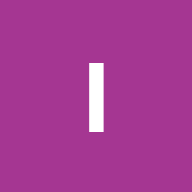
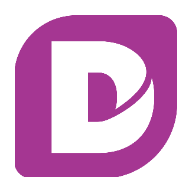
ver password

diff --git a/pages/login.js b/pages/login.js
@@ -5,6 +5,7 @@ export default function Login() {
   const router = useRouter();
   const [email, setEmail] = useState('');
   const [password, setPassword] = useState('');
+  const [showPw, setShowPw] = useState(false);
   const [error, setError] = useState('');
   const [loading, setLoading] = useState(false);
 
@@ -26,8 +27,8 @@ export default function Login() {
   return (
     <div style={{ fontFamily: "'Outfit', system-ui, sans-serif", minHeight: '100vh', background: 'radial-gradient(circle at 20% 15%, #FBD9F2 0%, #FDF8FB 45%, #FDF8FB 100%)', display: 'flex', alignItems: 'center', justifyContent: 'center', padding: 24 }}>
       <form onSubmit={submit} style={{ width: '100%', maxWidth: 380, background: '#fff', borderRadius: 24, padding: '40px 32px', boxShadow: '0 12px 40px rgba(165,54,146,0.12)' }}>
-        <div style={{ width: 52, height: 52, borderRadius: 16, background: 'linear-gradient(135deg, #A53692, #7C07A6)', display: 'flex', alignItems: 'center', justifyContent: 'center', marginBottom: 20 }}>
-          <span style={{ color: '#fff', fontSize: 24, fontWeight: 700 }}>I</span>
+        <div style={{ width: 52, height: 52, borderRadius: 16, background: '#fff', display: 'flex', alignItems: 'center', justifyContent: 'center', marginBottom: 20, overflow: 'hidden' }}>
+          <img src="/icon-192.png" alt="Diseñarte México" style={{ width: '100%', height: '100%', objectFit: 'contain' }} />
         </div>
         <div style={{ fontSize: 26, fontWeight: 700, color: '#1D1B1E', marginBottom: 2 }}>Bienvenido</div>
         <div style={{ fontSize: 14, color: '#96989A', marginBottom: 28 }}>Inicia sesión en Inventario · Diseñarte México</div>
@@ -38,7 +39,10 @@ export default function Login() {
         </label>
         <label style={{ fontSize: 13, color: '#96989A', display: 'flex', flexDirection: 'column', gap: 6, marginBottom: 8 }}>
           Contraseña
-          <input type="password" required value={password} onChange={(e) => setPassword(e.target.value)} placeholder="••••••••" style={{ border: '1px solid #F1EEF0', borderRadius: 10, padding: '12px 14px', fontSize: 15, fontFamily: 'inherit', outline: 'none' }} />
+          <div style={{ position: 'relative', display: 'flex' }}>
+            <input type={showPw ? 'text' : 'password'} required value={password} onChange={(e) => setPassword(e.target.value)} placeholder="••••••••" style={{ flex: 1, border: '1px solid #F1EEF0', borderRadius: 10, padding: '12px 44px 12px 14px', fontSize: 15, fontFamily: 'inherit', outline: 'none' }} />
+            <button type="button" onClick={() => setShowPw((v) => !v)} style={{ position: 'absolute', right: 6, top: 0, bottom: 0, border: 'none', background: 'none', color: '#96989A', fontSize: 12, cursor: 'pointer', fontWeight: 600 }}>{showPw ? 'Ocultar' : 'Ver'}</button>
+          </div>
         </label>
 
         {error ? <div style={{ fontSize: 13, color: '#B3261E', marginTop: 10 }}>{error}</div> : null}

diff --git a/pages/index.js b/pages/index.js
@@ -38,6 +38,7 @@ export default function Home() {
   const [editCatForm, setEditCatForm] = useState({ name: '', unit: '' });
   const [newUser, setNewUser] = useState({ name: '', email: '', password: '', role: 'produccion' });
   const [busy, setBusy] = useState(false);
+  const [showNewUserPw, setShowNewUserPw] = useState(false);
 
   const loadAll = useCallback(async () => {
     const me = await api('/api/auth/me');
@@ -302,7 +303,8 @@ export default function Home() {
               <div style={{ display: 'flex', gap: 8, flexWrap: 'wrap' }}>
                 <input placeholder="Nombre" value={newUser.name} onChange={(e) => setNewUser((u) => ({ ...u, name: e.target.value }))} style={{ flex: 1.5, minWidth: 140, border: `1px solid ${COLORS.border}`, borderRadius: 8, padding: '9px 12px', fontSize: 14 }} />
                 <input placeholder="Correo" value={newUser.email} onChange={(e) => setNewUser((u) => ({ ...u, email: e.target.value }))} style={{ flex: 1.5, minWidth: 160, border: `1px solid ${COLORS.border}`, borderRadius: 8, padding: '9px 12px', fontSize: 14 }} />
-                <input placeholder="Contraseña" value={newUser.password} onChange={(e) => setNewUser((u) => ({ ...u, password: e.target.value }))} style={{ flex: 1, minWidth: 120, border: `1px solid ${COLORS.border}`, borderRadius: 8, padding: '9px 12px', fontSize: 14 }} />
+                <input placeholder="Contraseña" value={newUser.password} onChange={(e) => setNewUser((u) => ({ ...u, password: e.target.value }))} type={showNewUserPw ? 'text' : 'password'} style={{ flex: 1, minWidth: 120, border: `1px solid ${COLORS.border}`, borderRadius: 8, padding: '9px 12px', fontSize: 14 }} />
+                <button type="button" onClick={() => setShowNewUserPw((v) => !v)} style={{ border: 'none', background: 'none', color: COLORS.muted, fontSize: 12, fontWeight: 600, cursor: 'pointer' }}>{showNewUserPw ? 'Ocultar' : 'Ver'}</button>
               </div>
               <div style={{ display: 'flex', gap: 6, flexWrap: 'wrap', marginTop: 10 }}>
                 {ROLE_KEYS.map((r) => (
